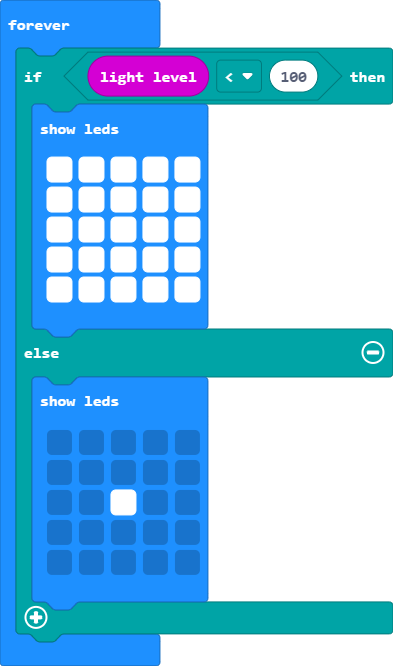
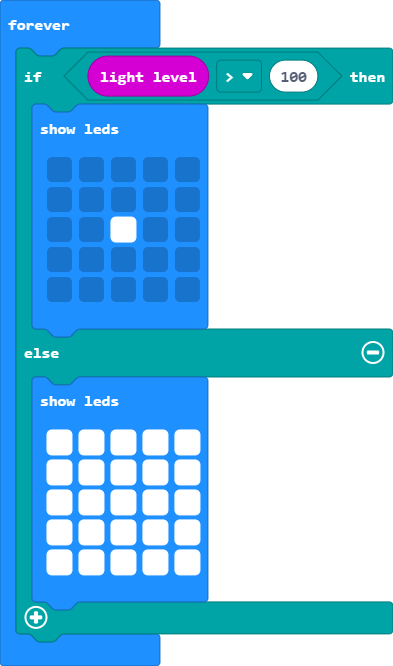
Update main.blocks, main.ts

Changed region(s): [[0.0916, 0.2102, 0.5191, 0.4805], [0.0916, 0.6306, 0.5191, 0.8709], [0.5802, 0.0901, 0.6107, 0.1201]]

diff --git a/main.ts b/main.ts
@@ -1,19 +1,19 @@
 basic.forever(function () {
-    if (input.lightLevel() < 100) {
-        basic.showLeds(`
-            # # # # #
-            # # # # #
-            # # # # #
-            # # # # #
-            # # # # #
-            `)
-    } else {
+    if (input.lightLevel() > 100) {
         basic.showLeds(`
             . . . . .
             . . . . .
             . . # . .
             . . . . .
             . . . . .
+            `)
+    } else {
+        basic.showLeds(`
+            # # # # #
+            # # # # #
+            # # # # #
+            # # # # #
+            # # # # #
             `)
     }
 })
